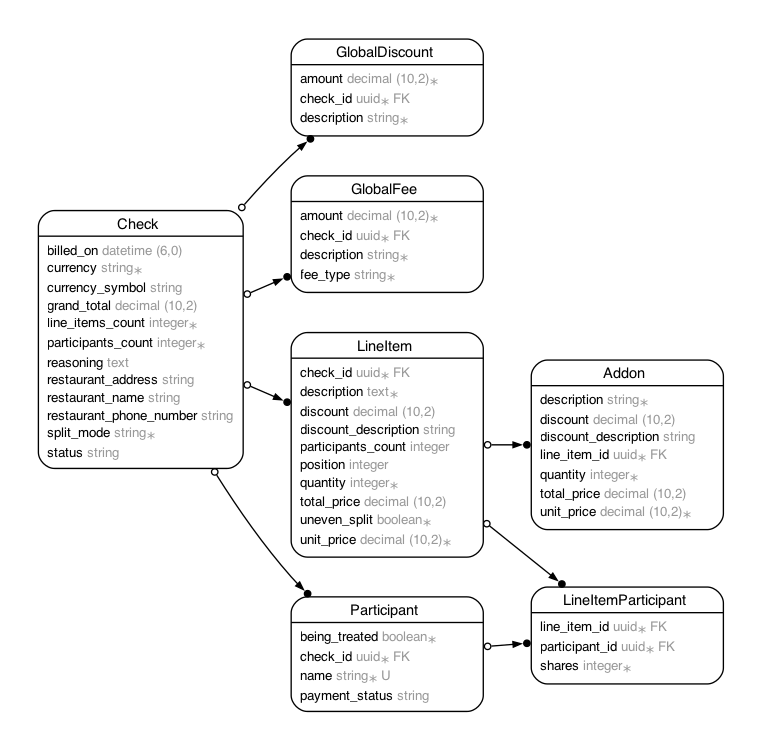
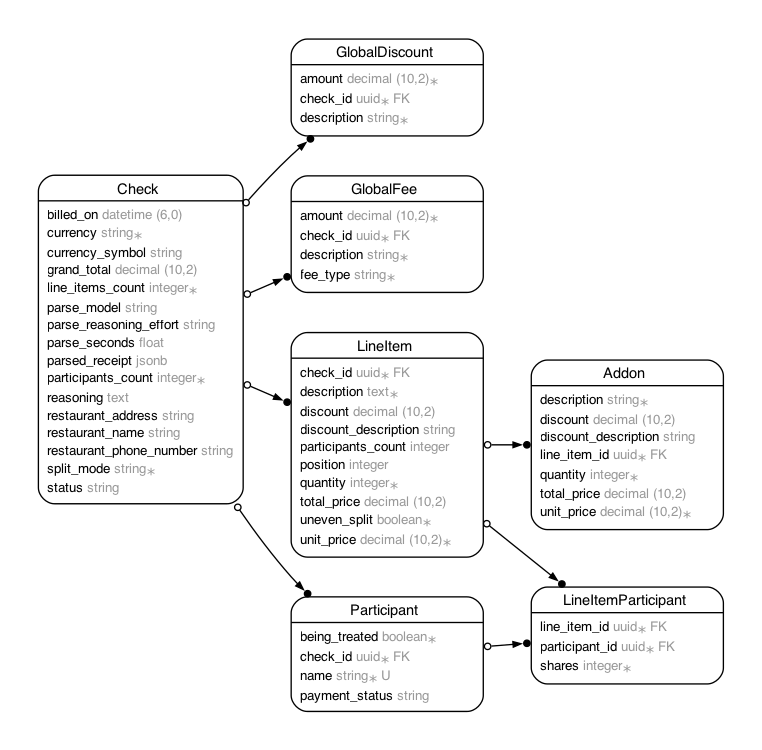
Record each receipt parse on its check
Nothing kept what the parser returned once people started editing a
check, or which model produced it, so there was no way to tell how
often real receipts parse wrong, or even which model production was
using without reading the deployed code.

Store the parse as returned, the model and reasoning effort, and how
long it took. Comparing parsed_receipt with the check people finally
split turns ordinary use into labeled examples for the parsing eval.

The columns ship ahead of the code that writes them: the web service
migrates on boot, but the worker deploys from the same commit and
could pick up a parse before the migration ran.

Changed region(s): [[0.0302, 0.2147, 0.332, 0.6747]]

diff --git a/db/cable_schema.rb b/db/cable_schema.rb
@@ -10,7 +10,7 @@
 #
 # It's strongly recommended that you check this file into your version control system.
 
-ActiveRecord::Schema[8.1].define(version: 2026_09_01_000140) do
+ActiveRecord::Schema[8.1].define(version: 2026_10_21_050000) do
   # These are extensions that must be enabled in order to support this database
   enable_extension "pg_catalog.plpgsql"
   enable_extension "pgcrypto"
@@ -162,6 +162,10 @@ ActiveRecord::Schema[8.1].define(version: 2026_09_01_000140) do
     t.string "currency_symbol", default: "$"
     t.decimal "grand_total", precision: 10, scale: 2
     t.integer "line_items_count", default: 0, null: false
+    t.string "parse_model"
+    t.string "parse_reasoning_effort"
+    t.float "parse_seconds"
+    t.jsonb "parsed_receipt"
     t.integer "participants_count", default: 0, null: false
     t.text "reasoning"
     t.string "restaurant_address"

diff --git a/db/cache_schema.rb b/db/cache_schema.rb
@@ -10,7 +10,7 @@
 #
 # It's strongly recommended that you check this file into your version control system.
 
-ActiveRecord::Schema[8.1].define(version: 2026_09_01_000140) do
+ActiveRecord::Schema[8.1].define(version: 2026_10_21_050000) do
   # These are extensions that must be enabled in order to support this database
   enable_extension "pg_catalog.plpgsql"
   enable_extension "pgcrypto"
@@ -162,6 +162,10 @@ ActiveRecord::Schema[8.1].define(version: 2026_09_01_000140) do
     t.string "currency_symbol", default: "$"
     t.decimal "grand_total", precision: 10, scale: 2
     t.integer "line_items_count", default: 0, null: false
+    t.string "parse_model"
+    t.string "parse_reasoning_effort"
+    t.float "parse_seconds"
+    t.jsonb "parsed_receipt"
     t.integer "participants_count", default: 0, null: false
     t.text "reasoning"
     t.string "restaurant_address"

diff --git a/db/queue_schema.rb b/db/queue_schema.rb
@@ -10,7 +10,7 @@
 #
 # It's strongly recommended that you check this file into your version control system.
 
-ActiveRecord::Schema[8.1].define(version: 2026_09_01_000140) do
+ActiveRecord::Schema[8.1].define(version: 2026_10_21_050000) do
   # These are extensions that must be enabled in order to support this database
   enable_extension "pg_catalog.plpgsql"
   enable_extension "pgcrypto"
@@ -162,6 +162,10 @@ ActiveRecord::Schema[8.1].define(version: 2026_09_01_000140) do
     t.string "currency_symbol", default: "$"
     t.decimal "grand_total", precision: 10, scale: 2
     t.integer "line_items_count", default: 0, null: false
+    t.string "parse_model"
+    t.string "parse_reasoning_effort"
+    t.float "parse_seconds"
+    t.jsonb "parsed_receipt"
     t.integer "participants_count", default: 0, null: false
     t.text "reasoning"
     t.string "restaurant_address"

diff --git a/db/schema.rb b/db/schema.rb
@@ -10,7 +10,7 @@
 #
 # It's strongly recommended that you check this file into your version control system.
 
-ActiveRecord::Schema[8.1].define(version: 2026_09_01_000140) do
+ActiveRecord::Schema[8.1].define(version: 2026_10_21_050000) do
   # These are extensions that must be enabled in order to support this database
   enable_extension "pg_catalog.plpgsql"
   enable_extension "pgcrypto"
@@ -162,6 +162,10 @@ ActiveRecord::Schema[8.1].define(version: 2026_09_01_000140) do
     t.string "currency_symbol", default: "$"
     t.decimal "grand_total", precision: 10, scale: 2
     t.integer "line_items_count", default: 0, null: false
+    t.string "parse_model"
+    t.string "parse_reasoning_effort"
+    t.float "parse_seconds"
+    t.jsonb "parsed_receipt"
     t.integer "participants_count", default: 0, null: false
     t.text "reasoning"
     t.string "restaurant_address"

diff --git a/db/migrate/20261021050000_add_parse_record_to_checks.rb b/db/migrate/20261021050000_add_parse_record_to_checks.rb
@@ -1,0 +1,12 @@
+class AddParseRecordToChecks < ActiveRecord::Migration[8.1]
+  # What the parser returned before anyone edited it, and which model and
+  # effort produced it. Comparing this with the check people finally split
+  # shows where parsing goes wrong on real receipts, which the fixture eval
+  # can only approximate.
+  def change
+    add_column :checks, :parsed_receipt, :jsonb
+    add_column :checks, :parse_model, :string
+    add_column :checks, :parse_reasoning_effort, :string
+    add_column :checks, :parse_seconds, :float
+  end
+end

diff --git a/app/models/check.rb b/app/models/check.rb
@@ -9,6 +9,10 @@
 #  currency_symbol         :string           default("$")
 #  grand_total             :decimal(10, 2)
 #  line_items_count        :integer          default(0), not null
+#  parse_model             :string
+#  parse_reasoning_effort  :string
+#  parse_seconds           :float
+#  parsed_receipt          :jsonb
 #  participants_count      :integer          default(0), not null
 #  reasoning               :text
 #  restaurant_address      :string
